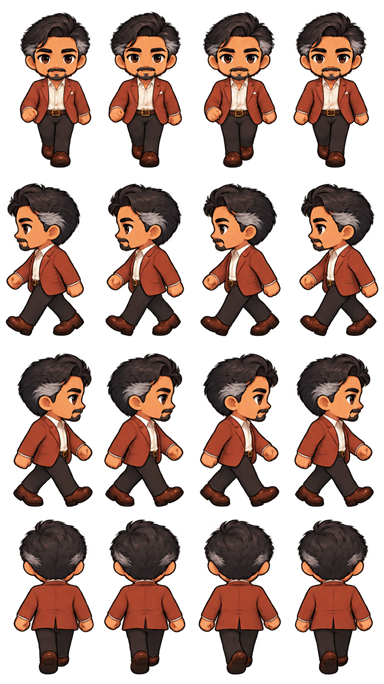
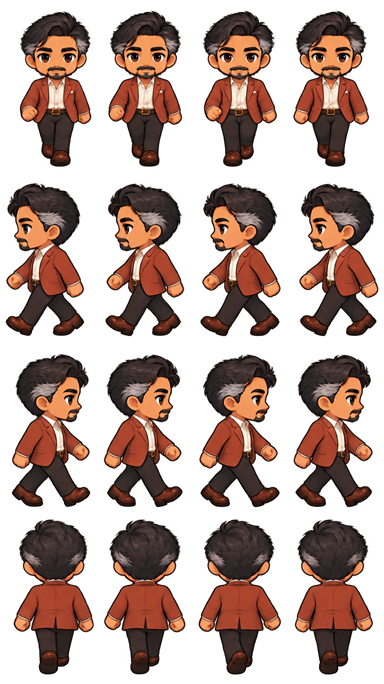
fix(dialogue): clarify incomplete questions without AI

diff --git a/apps/server/src/tests/dialogue.test.ts b/apps/server/src/tests/dialogue.test.ts
@@ -198,6 +198,28 @@ test('NPCs answer name questions, including a common learner mistake', async () 
   }
 });
 
+test('incomplete question stems get an immediate clarification instead of an AI-eligible misunderstanding', async () => {
+  const { engine } = await fixture();
+  const expected = new Set([
+    'What were you going to say?',
+    'Could you finish your question?',
+    "Sorry, I don't understand. What do you mean?",
+    'Could you say a little more?',
+    'What would you like to ask?',
+    "Sorry, I didn't catch that. Could you try again?",
+  ]);
+
+  for (const [variationIndex, input] of ['are you', 'Can you?', 'What do you…'].entries()) {
+    const reply = await engine.reply({ ...receptionist, variationIndex }, input);
+    assert.equal(reply.node.id, 'global_incomplete_question', input);
+    assert.equal(reply.intent, null, input);
+    assert.equal(reply.misunderstood, false, input);
+    assert.ok(expected.has(reply.text), reply.text);
+  }
+
+  assert.notEqual((await engine.reply(receptionist, 'Are you from Sweden?')).node.id, 'global_incomplete_question');
+});
+
 test('T4 misunderstandings, boundaries and refusals never return a successful intent', async () => {
   const { engine } = await fixture();
   for (const input of ['', '   ', 'this is something else', 'ticketseller', "I don't want a bus ticket", 'not a bus ticket', '🚀', 'SELECT * FROM quests']) {

diff --git a/apps/server/src/modules/dialogue/dialogue.service.ts b/apps/server/src/modules/dialogue/dialogue.service.ts
@@ -40,6 +40,11 @@ function asksForDirections(input: string): boolean {
   return /^how (?:do |can |could |would )?(?:i|we) (?:get|go|travel|reach) (?:to )?(?:the )?[a-z0-9]+(?: [a-z0-9]+){0,5}$/.test(input);
 }
 
+function isIncompleteQuestion(input: string): boolean {
+  if (/^(?:how|where) are you$/.test(input)) return false;
+  return /^(?:(?:what|why|where|when|how) )?(?:am|are|is|was|were|do|does|did|can|could|would|will|have|has) (?:i|you|he|she|it|we|they)$/.test(input);
+}
+
 @Injectable()
 export class DialogueService {
   constructor(private readonly cache: DialogueCacheService) {}
@@ -65,6 +70,10 @@ export class DialogueService {
       applicable.find(entry => entry.node.id === id);
     const current = find(context.currentNodeId);
     const text = words(input);
+    if (isIncompleteQuestion(text)) {
+      const clarification = find('global_incomplete_question');
+      if (clarification) return { ...this.render(clarification, context, null), misunderstood: false };
+    }
     // Do not turn an explicit refusal into a positive request.
     const refused = /\b(?:(?:don't|do not|not|never)\s+(?:want|need|like|request|ask|asking)|(?:no|not)\s+(?:a\s+|the\s+)?(?:bus\s+)?tickets?)\b/.test(text);
     if (text && !refused) for (const group of groups) {

diff --git a/docs/TECH.md b/docs/TECH.md
@@ -83,9 +83,14 @@ data deterministically falls back to `2000-01-01` in the daytime bucket.
 Venue-specific service staff,
 ambient pools, limits and safe spawn/exclusion geometry live in
 `apps/game/src/features/shops/venue-npc-config.ts`. To add a store, add its NPC
-content/assets, register one validated venue configuration, and author safe
-actor coordinates; do not add a second selection algorithm. Store opening
-hours remain in `features/shops/shop-navigation.ts`.
+content and portrait/walking assets, add its display identity to
+`features/shops/shop-npcs.ts`, and bundle required service textures through
+`features/shops/service-npc-assets.ts`. Then add one validated venue
+configuration and walkable customer-only spawn and exclusion zones; keep exits,
+counters and primary paths clear. The registry owns selection, so a venue does
+not need its own selector. Verify the new roster with focused game tests,
+`pnpm content:validate`, `pnpm --filter game build` and `pnpm check:pwa`. Store
+opening hours remain in `features/shops/shop-navigation.ts`.
 
 Required store staff use bundled atlases from
 `features/shops/service-npc-assets.ts`; generated map packs retain actor

diff --git a/docs/GAME.md b/docs/GAME.md
@@ -90,9 +90,10 @@ problems. English is a tool to accomplish a task, not a multiple-choice test.
   The current playable map gates its store interiors; closed entrances show the
   owner's dialogue with opening hours. The pause menu does not list
   opening-hour schedules.
-- The existing Phaser **train station** is playable local practice with a
-  receptionist and one or two passengers selected from three identities, sample conversations,
-  movement/portals, recorded audio, and optional browser speech-to-text. Its
+- The existing Phaser **train station** is playable local practice with
+  receptionist Ruth and one or two deterministically selected passengers from
+  Sofia, Elias and Ingrid, sample conversations, movement/portals, recorded
+  audio, and optional browser speech-to-text. Its
   current receptionist asks about an **ID card**, and its street exit is
   unlocked by that conversation—not by a bus ticket. This is **legacy practice
   behavior**, not the new opening quest. It works without an account and gives
